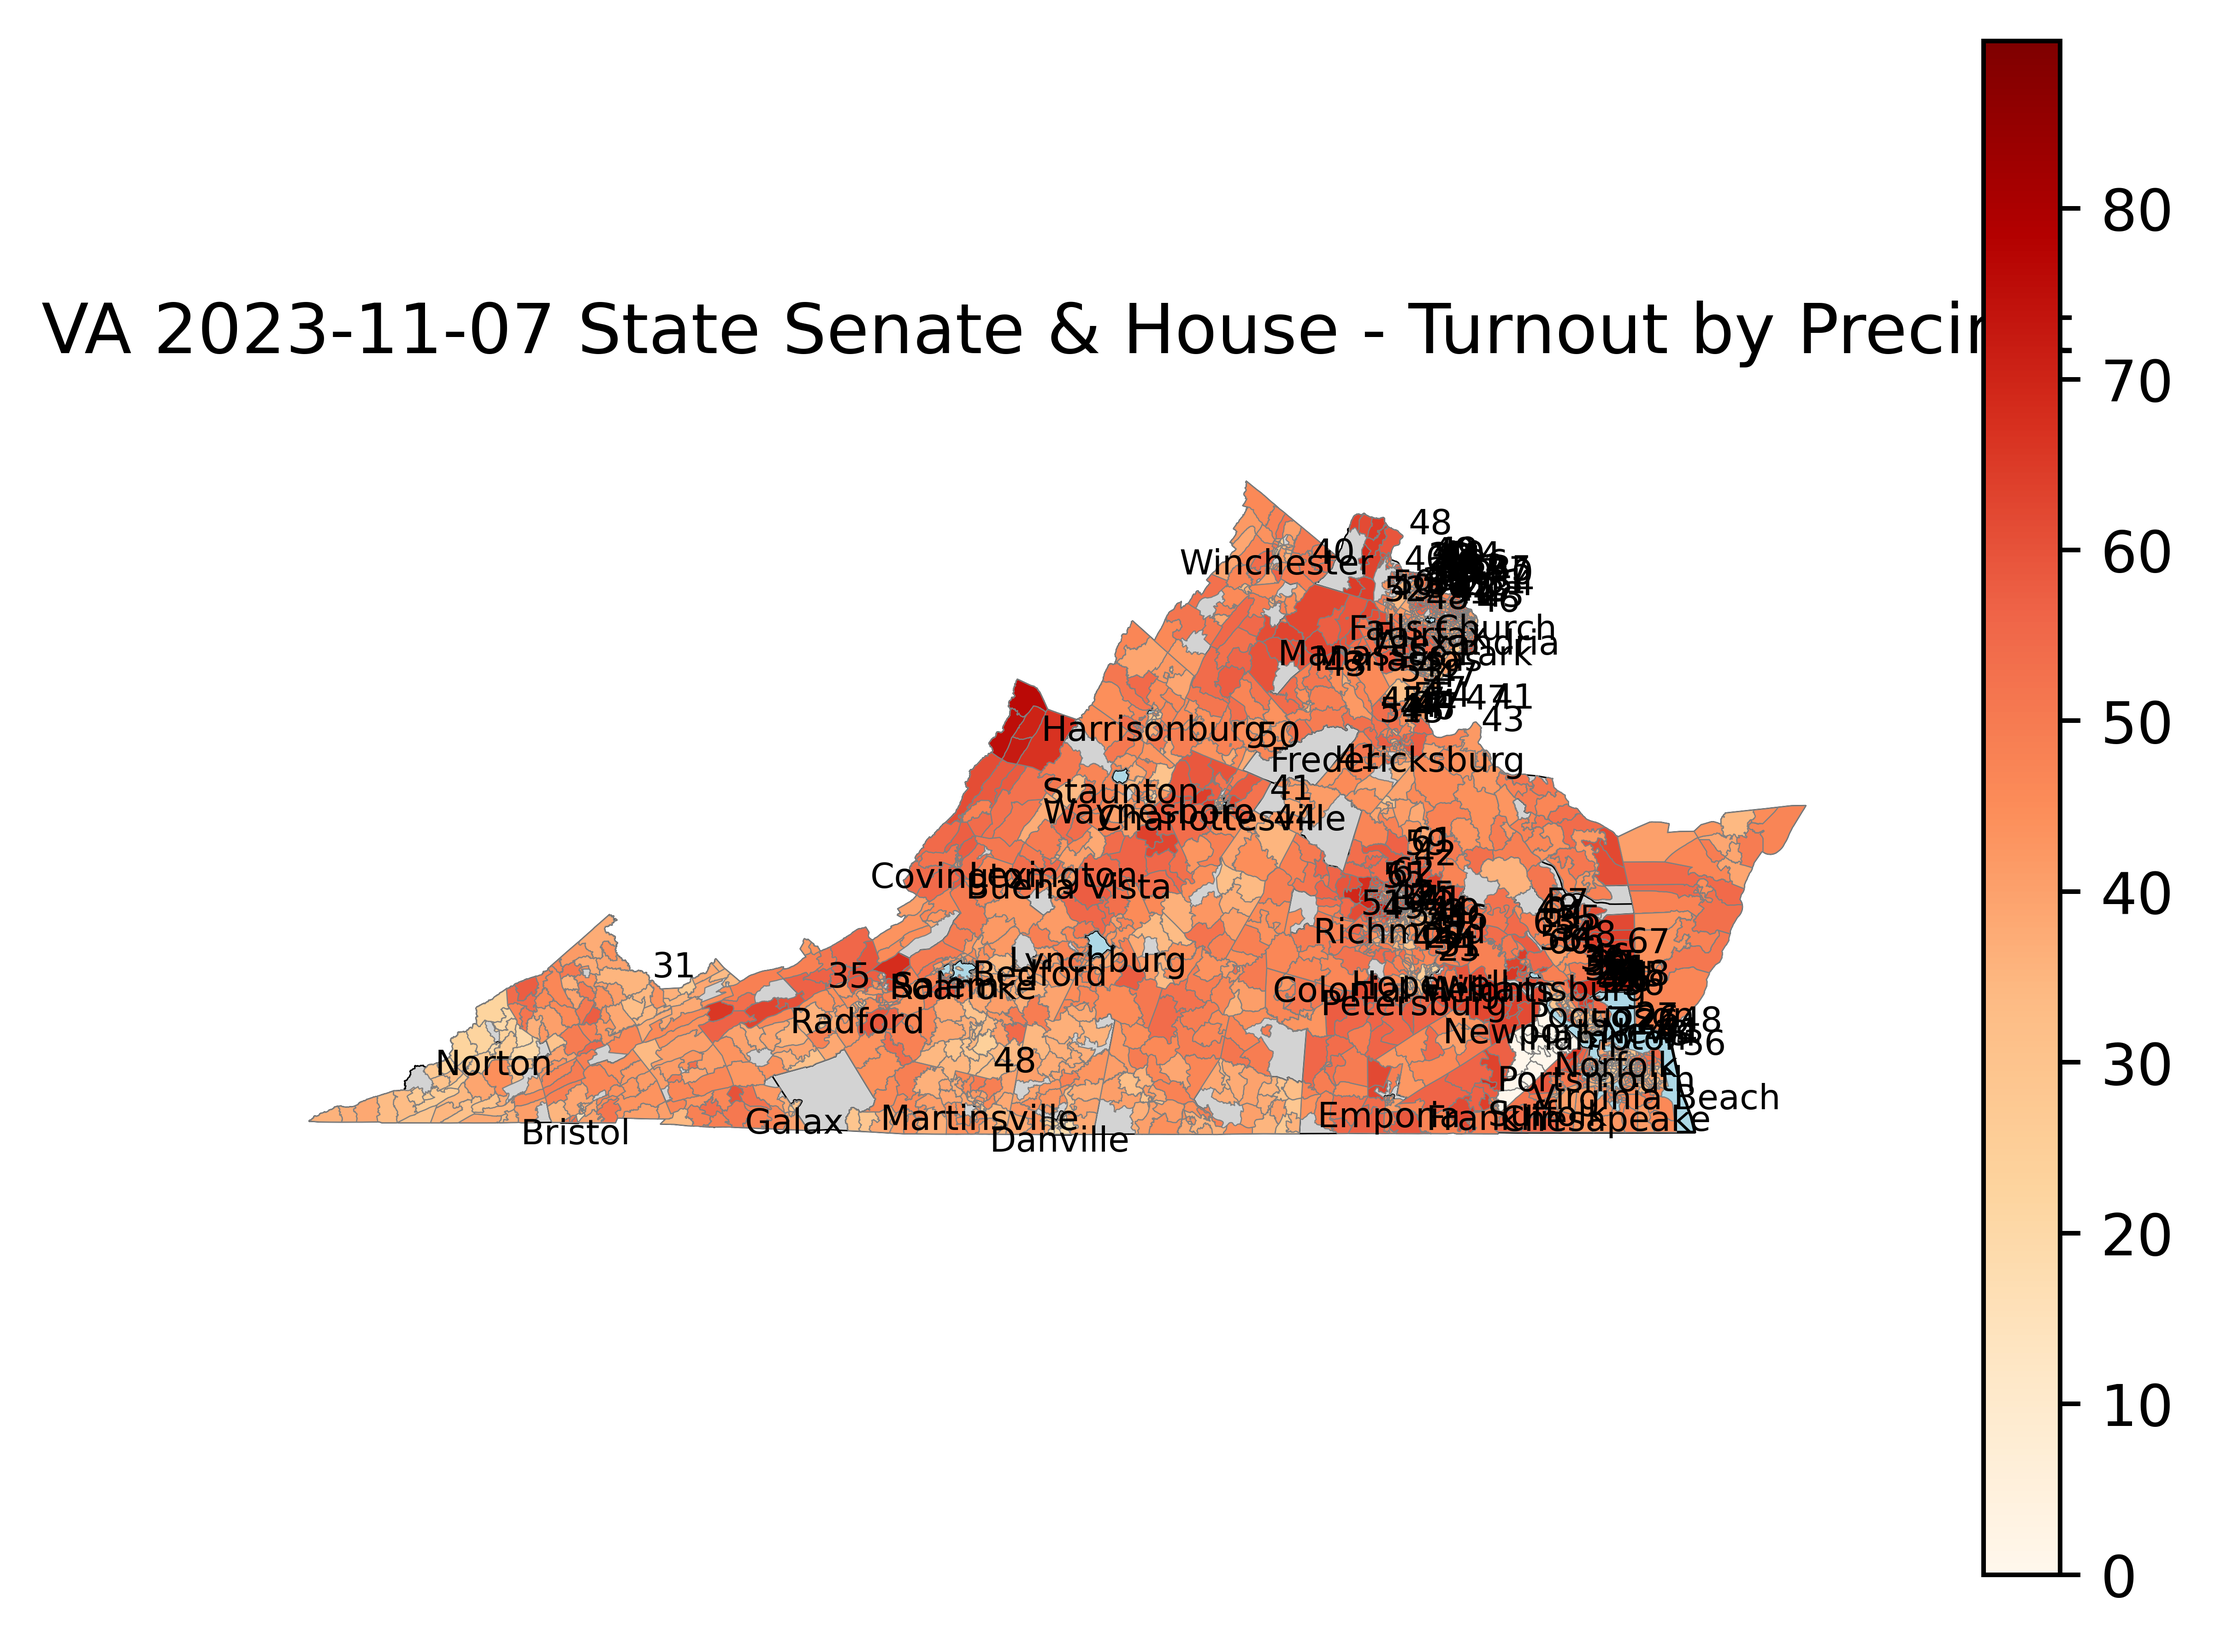
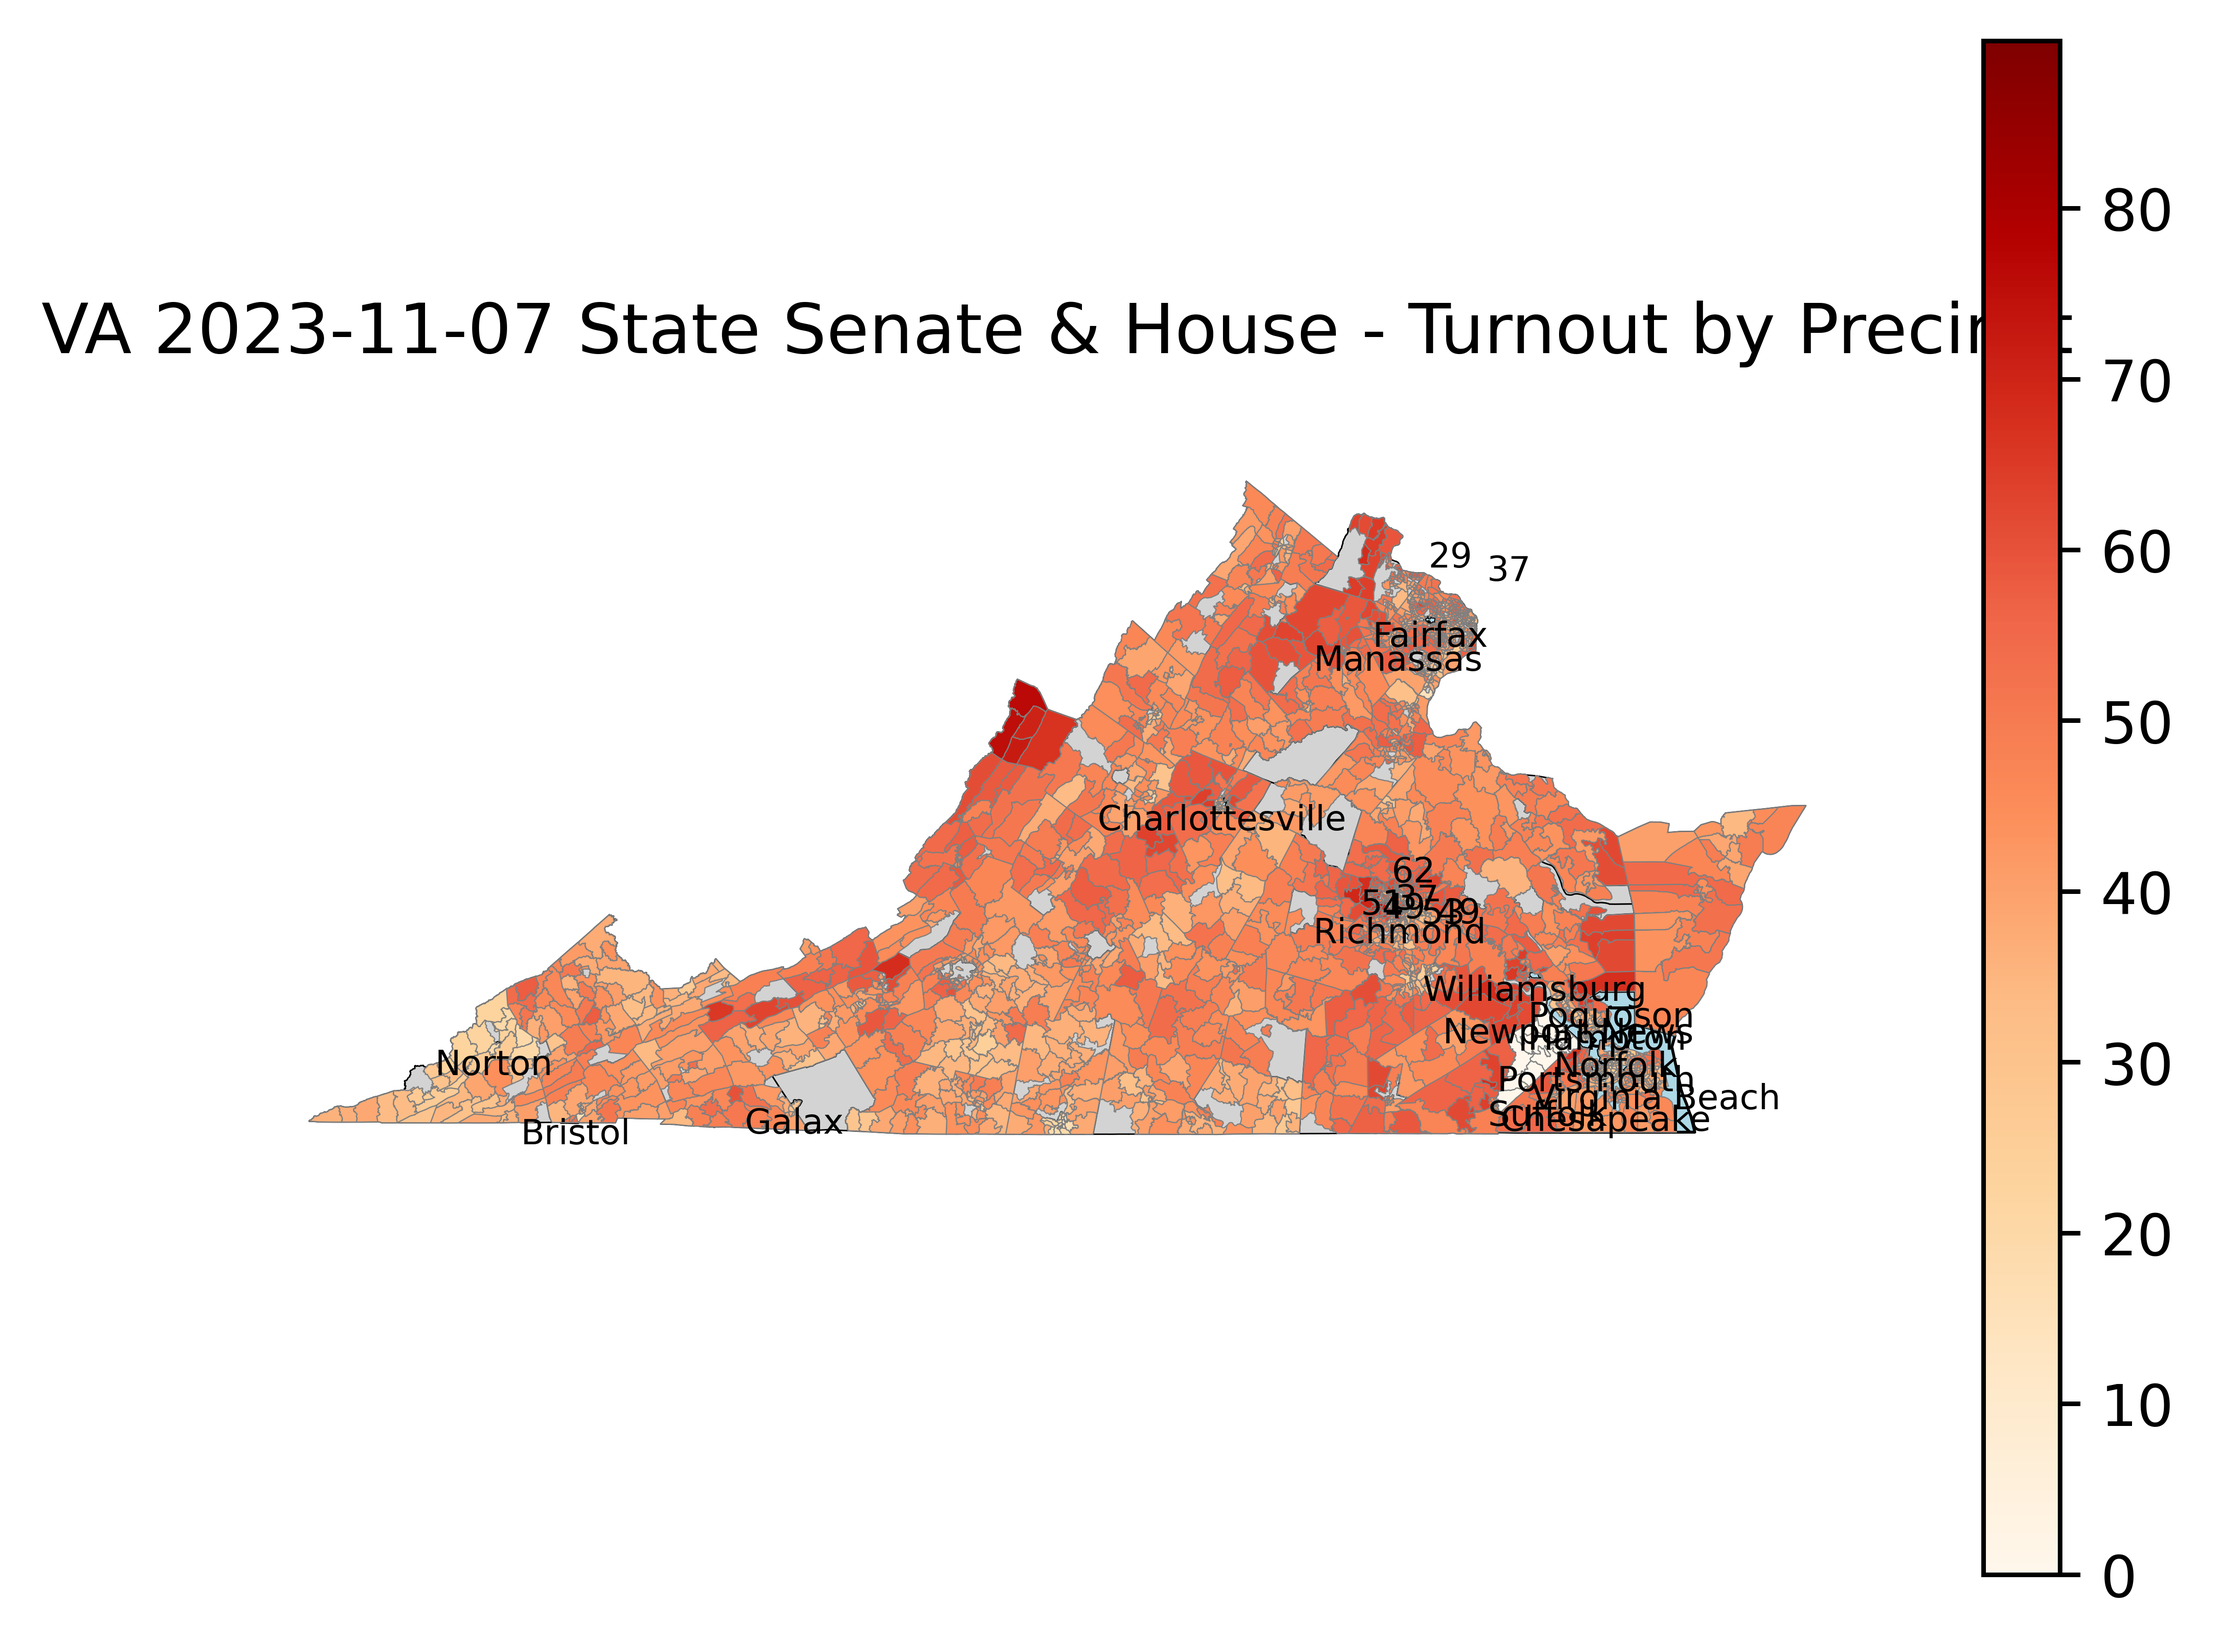
Updated GDFPlot

diff --git a/VA_2023-11-07_Import_analyze.py b/VA_2023-11-07_Import_analyze.py
@@ -197,8 +197,9 @@ virginia_boundaries.info()
 print(virginia_boundaries)
 print(virginia_boundaries[['NAME', 'NAMELSAD', 'LSAD','CLASSFP', 'COUNTYFP', 'COUNTYNS']])
 
-# Filter out the cities (excluding counties)
-virginia_cities = virginia_boundaries[virginia_boundaries['NAMELSAD'].str.contains('city')]
+# Filter out the cities (excluding counties) and specific city names
+city_names = ['Richmond', 'Charlottesville', 'Manassas', 'Fairfax', 'Chesapeake','Bristol', 'Galax', 'Norton', 'Suffolk', 'Portsmouth', 'Norfolk', 'Newport News', 'Hampton', 'Williamsburg', 'Poquoson', 'Virginia Beach']
+virginia_cities = virginia_boundaries[(virginia_boundaries['NAMELSAD'].str.contains('city')) & (virginia_boundaries['NAME'].isin(city_names))]
 virginia_cities.info()
 print(virginia_cities[['NAME', 'NAMELSAD', 'LSAD','CLASSFP', 'COUNTYFP', 'COUNTYNS']])
 
@@ -226,7 +227,7 @@ merged_df.plot(column='Turnout_pct', ax=ax, legend=True, cmap='OrRd', edgecolor=
 print(merged_df)
 
 # Filter in the precincts with Voters > 4000  
-merged_df_cities = merged_df[merged_df['ActiveRegisteredVoters'].gt(4000)]
+merged_df_cities = merged_df[merged_df['ActiveRegisteredVoters'].gt(5000)]
 merged_df_cities.info()
 
 
@@ -234,13 +235,12 @@ merged_df_cities.info()
 for idx, row in merged_df_cities.iterrows():
     Turnout_pct =  int(row['Turnout_pct']) if not pd.isna(row['Turnout_pct']) else 0
     ax.annotate(text=str(Turnout_pct), xy=(row.geometry.centroid.x, row.geometry.centroid.y),
-                xytext=(7, 7), textcoords="offset points", fontsize=6, ha='center', va='center', color='black')
+                xytext=(7,7), textcoords="offset points", fontsize=6, ha='center', va='center', color='black')
 
 ax.set_title('VA 2023-11-07 State Senate & House - Turnout by Precinct')
 ax.axis('off')
 
+# Save the Plot as a PNG file in the same directory 
+plt.savefig('VA 2023-11-07 State Senate & House - Turnout by Precinct.png', dpi=900, bbox_inches='tight')
 # Show the plot
 plt.show()
-
-# Save the Plot as a PNG file in the same directory 
-plt.savefig('VA 2023-11-07 State Senate & House - Turnout by Precinct.png')

diff --git a/VA_Cities_GeoPandas_example.py b/VA_Cities_GeoPandas_example.py
@@ -11,10 +11,10 @@ virginia_cities = virginia_boundaries[virginia_boundaries['NAMELSAD'].str.contai
 virginia_cities.info()
 
 # Plot the base map
-ax = virginia_boundaries.plot(color='lightgrey', edgecolor='black', linewidth=0.25)
+ax = virginia_boundaries.plot(color='lightgrey', edgecolor='grey', linewidth=0.25)
 
 # Plot the cities on top of the base map
-virginia_cities.plot(ax=ax, color='lightblue', edgecolor='black' , linewidth=0.25)
+virginia_cities.plot(ax=ax, color='lightblue', edgecolor='black' , linewidth=0.50)
 
 # Add city names as annotations
 for x, y, label in zip(virginia_cities.geometry.centroid.x, virginia_cities.geometry.centroid.y, virginia_cities['NAME']):
@@ -24,5 +24,8 @@ for x, y, label in zip(virginia_cities.geometry.centroid.x, virginia_cities.geom
 plt.title('Virginia Cities')
 
 # Show the plot
+
+# Save the plot to a PNG file with custom parameters
+plt.savefig('D:\Sonal\Documents\GitHub\VaVoterData\VA City Example.png', dpi=900, bbox_inches='tight')
 plt.show()
-plt.savefig('D:\Sonal\Documents\GitHub\VaVoterData\VA City Example.png')
+
